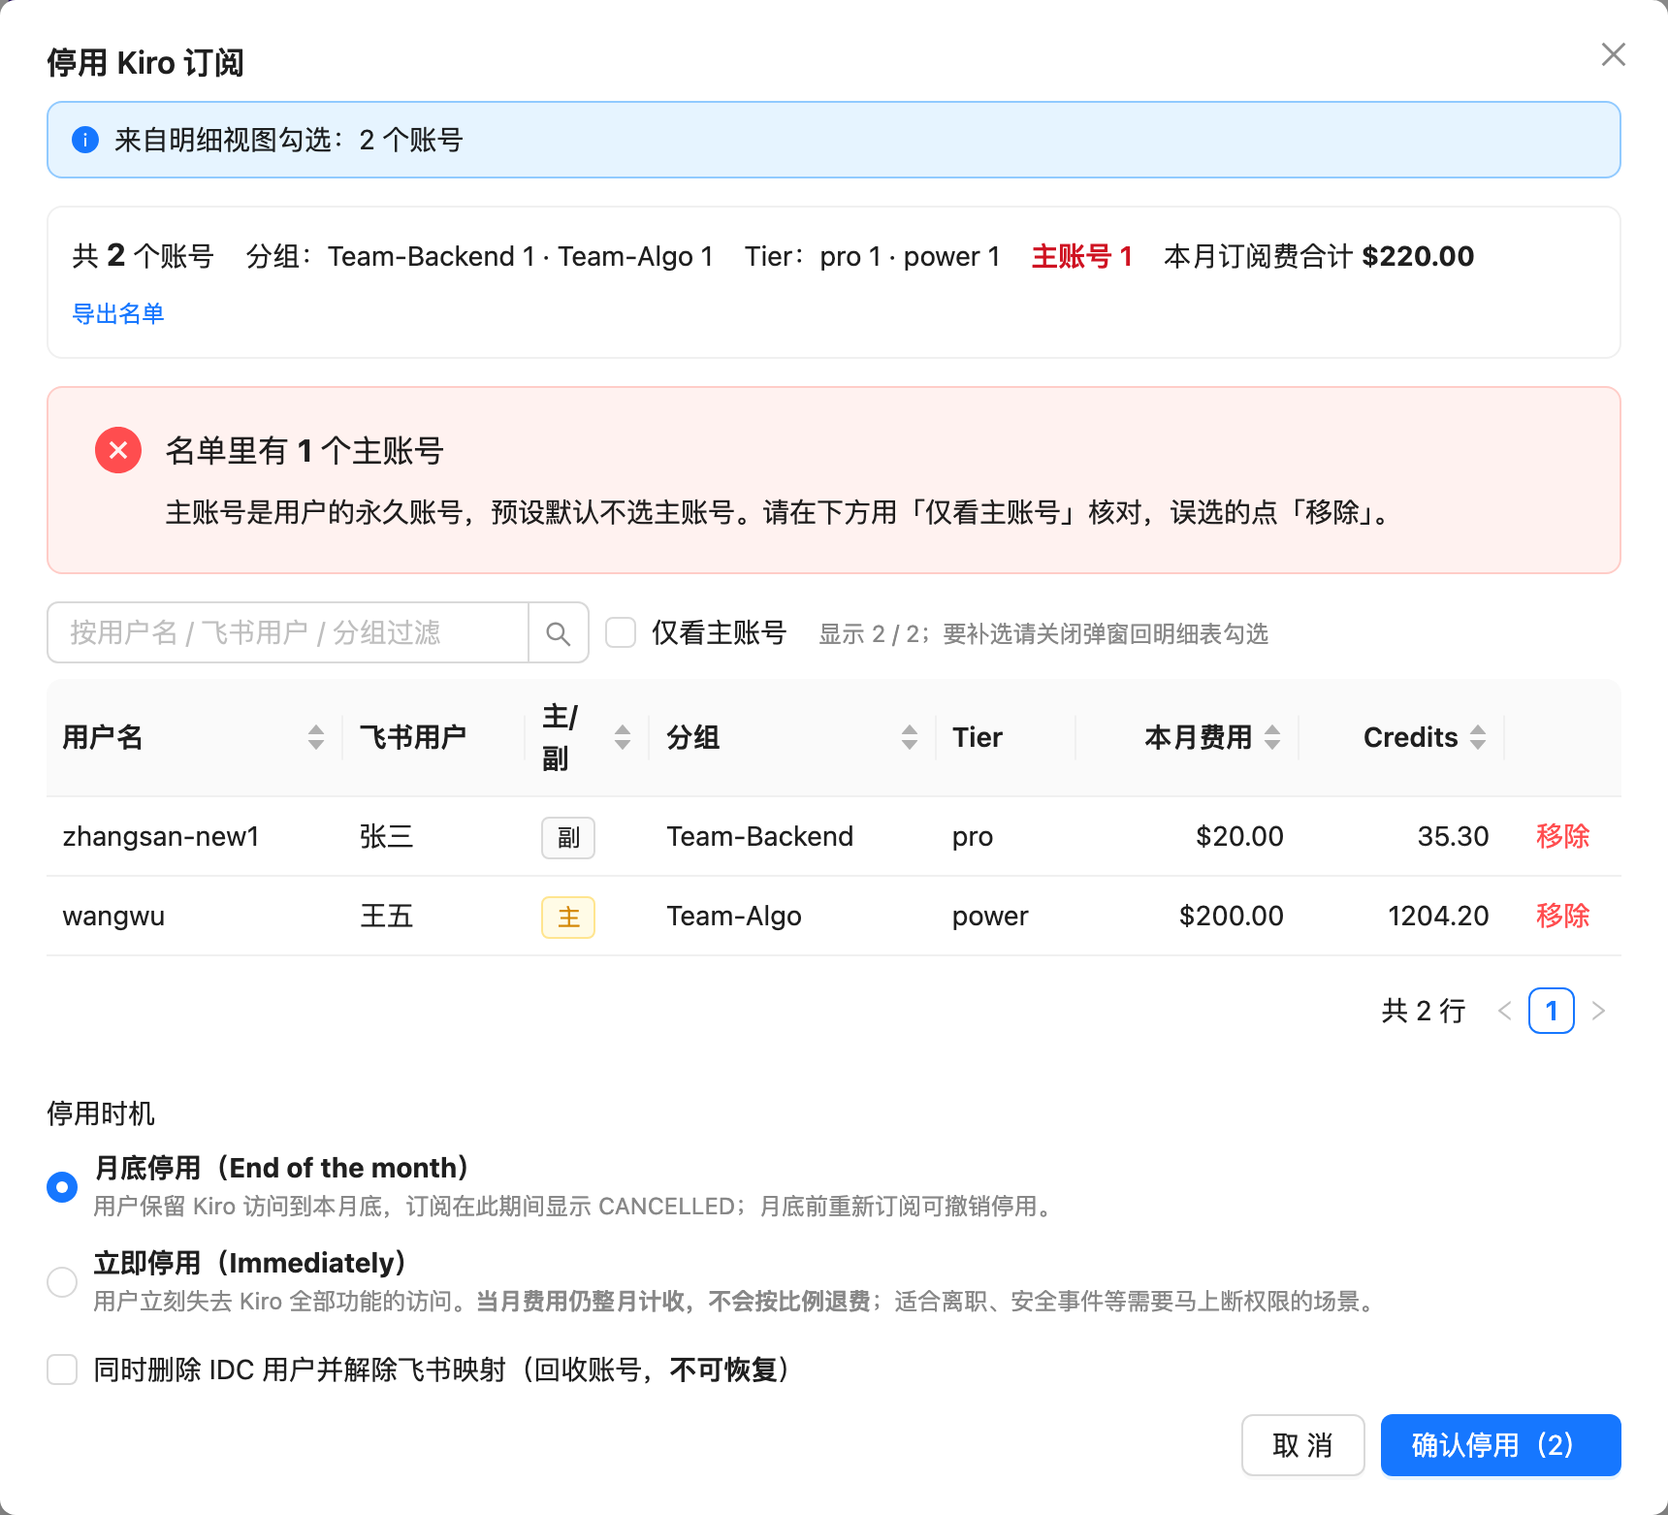
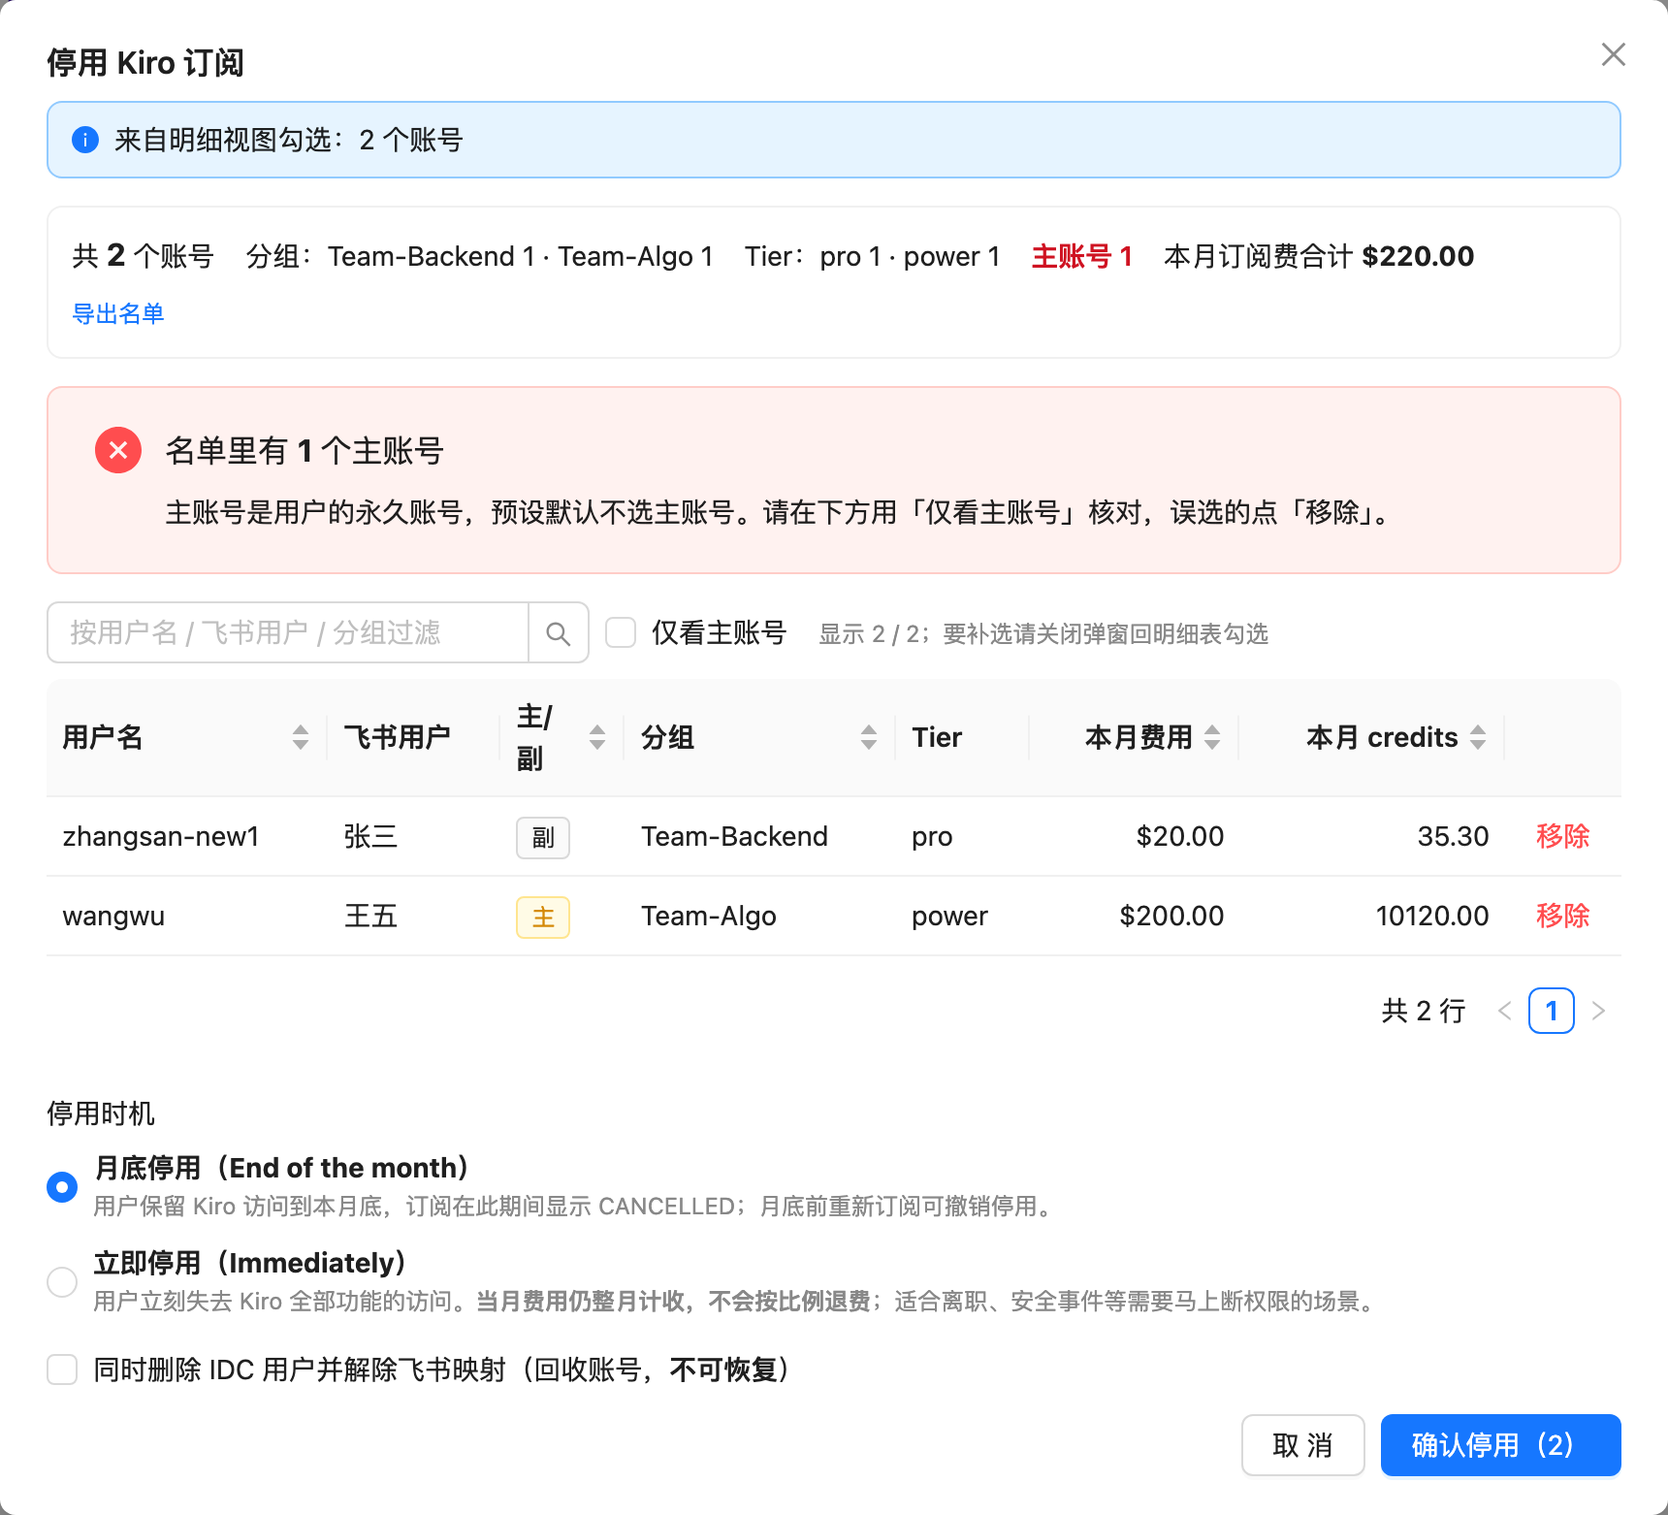
feat: 账号总览全面改为「本月」口径，去掉累计 Credits 列
- 子表删除累计 Credits 列（与「本月已用 / 额度」重复易混），消息数改为本月消息；
  父行改为「本月已用（汇总）」「本月消息（汇总）」；指标卡改「本月 Credits（全员）」「本月有用量的人」；
  Top 用户柱状图改本月
- 明细视图 Credits 阈值筛选、「低用量副账号」预设、停用核对表与导出名单均按本月 credits
- /accounts 新增 usage_month_messages / usage_month_active_days / usage_month_last_active（报表本月聚合）；
  累计值仍保留在 API（usage_credits / usage_messages）
- demo 数据改为自洽（本月 ≤ 累计）；README / PRODUCT.md 口径同步，截图重出

diff --git a/frontend/src/pages/AdminPage.tsx b/frontend/src/pages/AdminPage.tsx
@@ -194,9 +194,11 @@ function aggregateByPerson(rows: AccountRow[]): PersonRow[] {
     }
     p.accounts.push(r)
     p.account_count += 1
-    if (r.usage_credits != null) { p.credits += r.usage_credits; p.has_usage = true }
-    if (r.usage_messages != null) { p.messages += r.usage_messages; p.has_usage = true }
-    if (r.usage_last_active && r.usage_last_active > p.last_active) p.last_active = r.usage_last_active
+    // 本月口径：credits / 消息来自 User Activity Report 本月聚合（累计值仍在 API 中，界面不再展示）
+    if (r.billing_credit_used != null) { p.credits += r.billing_credit_used; p.has_usage = true }
+    if (r.usage_month_messages != null) { p.messages += r.usage_month_messages; p.has_usage = true }
+    const la = r.usage_month_last_active || r.usage_last_active
+    if (la && la > p.last_active) p.last_active = la
   }
   return [...map.values()].sort((a, b) => b.credits - a.credits)
 }
@@ -306,9 +308,9 @@ function DeactivateModal({ open, targets, summary, onClose, onDone }: {
     results.map((r) => [r.username, r.user_id, r.success ? 'success' : 'failed', r.error, mode, recycle ? 'yes' : 'no']))
   const exportList = () => downloadCsv(
     `kiro-deactivate-list-${new Date().toISOString().slice(0, 10)}.csv`,
-    ['username', 'feishu_name', 'role', 'team', 'tier', 'current_charges', 'credits'],
+    ['username', 'feishu_name', 'role', 'team', 'tier', 'current_charges', 'month_credits'],
     rows.map((r) => [r.kiro_username, r.feishu_name, r.account_role, r.team,
-      (r.live_synced ? r.live_tier : r.tier) || '', r.billing_current_charges, r.usage_credits]))
+      (r.live_synced ? r.live_tier : r.tier) || '', r.billing_current_charges, r.billing_credit_used]))
 
   const reviewCols = [
     { title: '用户名', dataIndex: 'kiro_username', sorter: (a: AccountRow, b: AccountRow) => a.kiro_username.localeCompare(b.kiro_username) },
@@ -321,8 +323,8 @@ function DeactivateModal({ open, targets, summary, onClose, onDone }: {
     { title: '本月费用', dataIndex: 'billing_current_charges', align: 'right' as const,
       render: (v: number | null, r: AccountRow) => fmtMoney(v, r.billing_currency),
       sorter: (a: AccountRow, b: AccountRow) => (a.billing_current_charges ?? 0) - (b.billing_current_charges ?? 0) },
-    { title: 'Credits', dataIndex: 'usage_credits', align: 'right' as const, render: fmtCredits,
-      sorter: (a: AccountRow, b: AccountRow) => (a.usage_credits ?? 0) - (b.usage_credits ?? 0) },
+    { title: '本月 credits', dataIndex: 'billing_credit_used', align: 'right' as const, render: fmtCredits,
+      sorter: (a: AccountRow, b: AccountRow) => (a.billing_credit_used ?? 0) - (b.billing_credit_used ?? 0) },
     { title: '', key: 'rm', width: 56, render: (_: any, r: AccountRow) => (
       <Button size="small" type="text" danger onClick={() => remove(r.kiro_user_id)} aria-label={`移除 ${r.kiro_username}`}>移除</Button>
     ) },
@@ -510,8 +512,8 @@ function AccountsPanel() {
   // ── 指标卡 ──
   const totalAccounts = rows.length
   const totalPeople = people.length
-  const totalCredits = rows.reduce((s, r) => s + (r.usage_credits ?? 0), 0)
-  const activePeople = people.filter((p) => p.has_usage && p.credits > 0).length
+  const totalCredits = rows.reduce((s, r) => s + (r.billing_credit_used ?? 0), 0)  // 本月全员 credits
+  const activePeople = people.filter((p) => p.has_usage && p.credits > 0).length     // 本月有用量的人
   // Overages 上限是 profile 级单一值（USD/订阅）；最坏敞口 = 账号数 × 上限
   const worstOverage = cap != null ? totalAccounts * cap.value : null
   // 本月预估账单 = Σ 本周期订阅费 + Σ 超额费用（计费口径，直读订阅计费服务）
@@ -543,14 +545,14 @@ function AccountsPanel() {
     (!fTiers.length || fTiers.includes(effTier(r))) &&
     (!fRole || r.account_role === fRole) &&
     (!fStatus || effStatus(r) === fStatus) &&
-    (fCreditsLt == null || (r.usage_credits ?? 0) < fCreditsLt) &&
+    (fCreditsLt == null || (r.billing_credit_used ?? 0) < fCreditsLt) &&
     (fInactiveDays == null || daysSince(r.usage_last_active) >= fInactiveDays))
   const filterDesc = [
     fTeams.length ? `分组 ${fTeams.join('/')}` : '',
     fTiers.length ? `Tier ${fTiers.join('/')}` : '',
     fRole ? (fRole === 'primary' ? '主账号' : '副账号') : '',
     fStatus ? `状态 ${fStatus}` : '',
-    fCreditsLt != null ? `Credits < ${fCreditsLt}` : '',
+    fCreditsLt != null ? `本月 Credits < ${fCreditsLt}` : '',
     fInactiveDays != null ? `${fInactiveDays} 天未活跃` : '',
   ].filter(Boolean).join(' · ')
   const resetFilters = () => { setFTeams([]); setFTiers([]); setFRole(undefined); setFStatus(undefined); setFCreditsLt(null); setFInactiveDays(null) }
@@ -561,7 +563,7 @@ function AccountsPanel() {
     setFRole('secondary'); setFCreditsLt(fCreditsLt ?? 50)
     const th = fCreditsLt ?? 50
     selectSecondaryOf(rows.filter((r) =>
-      (!fTeams.length || fTeams.includes(r.team)) && (r.usage_credits ?? 0) < th))
+      (!fTeams.length || fTeams.includes(r.team)) && (r.billing_credit_used ?? 0) < th))
   }
   const presetWholeTeam = () => {
     if (!fTeams.length) { message.info('先在「分组」里选择一个或多个组'); return }
@@ -618,8 +620,7 @@ function AccountsPanel() {
           {fmtMoney(v, r.billing_currency)}
         </span>
       ) },
-    { title: 'Credits', dataIndex: 'usage_credits', align: 'right' as const, render: fmtCredits },
-    { title: '消息数', dataIndex: 'usage_messages', align: 'right' as const, render: fmtNum },
+    { title: '本月消息', dataIndex: 'usage_month_messages', align: 'right' as const, render: fmtNum },
     { title: '最后活跃', dataIndex: 'usage_last_active',
       render: (v: string | null) => v || <span style={{ color: '#ccc' }}>—</span> },
     { title: '操作', key: 'ops', render: (_: any, r: AccountRow) => (
@@ -643,11 +644,11 @@ function AccountsPanel() {
     { title: '飞书用户', dataIndex: 'feishu_name' },
     { title: '账号数', dataIndex: 'account_count', align: 'right' as const,
       render: (n: number) => <Tag>{n}</Tag> },
-    { title: 'Credits（汇总）', dataIndex: 'credits', align: 'right' as const,
+    { title: '本月已用（汇总）', dataIndex: 'credits', align: 'right' as const,
       defaultSortOrder: 'descend' as const,
-      render: (v: number, p: PersonRow) => p.has_usage ? v.toFixed(2) : <span style={{ color: '#ccc' }}>—</span>,
+      render: (v: number, p: PersonRow) => p.has_usage ? v.toLocaleString(undefined, { maximumFractionDigits: 1 }) : <span style={{ color: '#ccc' }}>—</span>,
       sorter: (a: PersonRow, b: PersonRow) => a.credits - b.credits },
-    { title: '消息数（汇总）', dataIndex: 'messages', align: 'right' as const,
+    { title: '本月消息（汇总）', dataIndex: 'messages', align: 'right' as const,
       render: (v: number, p: PersonRow) => p.has_usage ? v.toLocaleString() : <span style={{ color: '#ccc' }}>—</span>,
       sorter: (a: PersonRow, b: PersonRow) => a.messages - b.messages },
     { title: '最后活跃', dataIndex: 'last_active',
@@ -666,8 +667,8 @@ function AccountsPanel() {
       <Row gutter={16}>
         <Col span={3}><Card size="small"><Statistic title="飞书用户数" value={totalPeople} /></Card></Col>
         <Col span={3}><Card size="small"><Statistic title="账号总数" value={totalAccounts} /></Card></Col>
-        <Col span={4}><Card size="small"><Statistic title="总 Credits" value={totalCredits} precision={1} /></Card></Col>
-        <Col span={3}><Card size="small"><Statistic title="有用量的人" value={activePeople} suffix={`/ ${totalPeople}`} /></Card></Col>
+        <Col span={4}><Card size="small"><Statistic title="本月 Credits（全员）" value={totalCredits} precision={1} /></Card></Col>
+        <Col span={3}><Card size="small"><Statistic title="本月有用量的人" value={activePeople} suffix={`/ ${totalPeople}`} /></Card></Col>
         <Col span={5}>
           <Card size="small">
             <Statistic title="本月预估账单" prefix="$" value={billingRows.length ? billSubs + billOver : '—'} precision={2}
@@ -757,7 +758,7 @@ function AccountsPanel() {
       {/* 图表 */}
       <Row gutter={16}>
         <Col span={14}>
-          <Card size="small" title="Top 用户 · Credits（按人汇总）">
+          <Card size="small" title="Top 用户 · 本月 Credits（按人汇总）">
             <HBarChart data={topByCredits} />
           </Card>
         </Col>
@@ -795,10 +796,10 @@ function AccountsPanel() {
           </Space>
         }>
         <Typography.Paragraph type="secondary" style={{ fontSize: 12, marginTop: -4 }}>
-          一人多账号已合并为一行，Credits/消息为名下所有账号汇总；点行首 ▸ 展开看每个子账号。
+          一人多账号已合并为一行，本月已用/本月消息为名下所有账号的本月汇总；点行首 ▸ 展开看每个子账号。
           Tier/订阅状态为 AWS 实时数据（控制台的退订/改套餐也会反映）；
           用量来自 Kiro Analytics（Athena，约每日更新），点「刷新」强制重查。— 表示暂无数据。
-          「本月费用」与月额度直读 Kiro 订阅计费服务（实时）；「本月已用 / 超额（预估）」与 Credits/消息数来自 User Activity Report（活动口径，日级延迟约 1 天）；点「账单」可按月回溯。
+          「本月费用」与月额度直读 Kiro 订阅计费服务（实时）；「本月已用 / 超额（预估）」与本月消息来自 User Activity Report（活动口径，按 UTC 自然月，日级延迟约 1 天，与控制台 Dashboard 一致）；点「账单」可按月回溯。
           子账号行的「停用」= 控制台 Deactivate Kiro plan（可选月底 / 立即），已停用（CANCELLED）的行显示「恢复」可撤销；「批量停用 / 回收」可一次处理多个低用量副账号。
         </Typography.Paragraph>
         {view === 'person' ? (
@@ -830,8 +831,8 @@ function AccountsPanel() {
               <Select allowClear placeholder="订阅状态" style={{ width: 130 }} value={fStatus} onChange={setFStatus}
                 options={[{ value: 'ACTIVE', label: 'ACTIVE' }, { value: 'PENDING', label: 'PENDING' },
                           { value: 'CANCELLED', label: 'CANCELLED' }, { value: 'NONE', label: '无订阅' }]} />
-              <InputNumber placeholder="不限" style={{ width: 170 }} min={0} value={fCreditsLt}
-                onChange={(v) => setFCreditsLt(v)} addonBefore="Credits <" />
+              <InputNumber placeholder="不限" style={{ width: 190 }} min={0} value={fCreditsLt}
+                onChange={(v) => setFCreditsLt(v)} addonBefore="本月 Credits <" />
               <InputNumber placeholder="天" style={{ width: 150 }} min={1} value={fInactiveDays}
                 onChange={(v) => setFInactiveDays(v)} addonBefore="未活跃 ≥" addonAfter="天" />
               <Button size="small" onClick={resetFilters}>清除筛选</Button>
@@ -840,7 +841,7 @@ function AccountsPanel() {
             {/* 预设 */}
             <Space size={8}>
               <span style={{ fontSize: 12, color: '#888' }}>快速选择：</span>
-              <Button size="small" onClick={presetLowUsage}>低用量副账号（Credits &lt; {fCreditsLt ?? 50}）</Button>
+              <Button size="small" onClick={presetLowUsage}>低用量副账号（本月 Credits &lt; {fCreditsLt ?? 50}）</Button>
               <Button size="small" onClick={presetWholeTeam} disabled={!fTeams.length}>选中本组全部副账号</Button>
               <Button size="small" onClick={() => selectSecondaryOf(filtered)}>选中当前匹配的副账号</Button>
               <span style={{ fontSize: 12, color: '#888' }}>预设只选副账号；主账号需手动勾选。</span>

diff --git a/frontend/src/api.ts b/frontend/src/api.ts
@@ -106,6 +106,10 @@ export interface AccountRow {
   billing_pending_scheduled: string | null
   billing_credit_limit: number | null
   billing_overage_rate: number | null
+  // 本月活动（User Activity Report 本月聚合）；null = 报表不可用
+  usage_month_messages: number | null
+  usage_month_active_days: number | null
+  usage_month_last_active: string | null
   // 本月已用 / 超额 credits：User Activity Report 本月聚合（活动口径，日级）；null = 报表不可用
   billing_credit_used: number | null
   billing_credit_used_source: 'athena_mtd' | null

diff --git a/backend/tests/test_api_e2e.py b/backend/tests/test_api_e2e.py
@@ -280,12 +280,15 @@ def test_accounts_include_billing_fields(client):
     assert u1["billing_overage_credits"] == 25.0
     assert u1["billing_overage_charges"] == 1.0           # 25 × 0.04 预估
     assert u1["billing_zorn_credit_used"] == 1234.5 and u1["billing_zorn_overage_charges"] == 3.2
+    assert u1["usage_month_messages"] == 73 and u1["usage_month_active_days"] == 1
+    assert u1["usage_month_last_active"] == "2026-11-03"
     assert u1["billing_account_status"] == "ACTIVE"
     # 报表可用但该用户本月无记录 → 0；没有计费数据 → synced=False、套餐字段 None，列表不中断
     u2 = rows["u2"]
     assert u2["billing_synced"] is False and u2["billing_error"] == "unavailable"
     assert u2["billing_current_charges"] is None and u2["billing_credit_limit"] is None
     assert u2["billing_credit_used"] == 0.0 and u2["billing_overage_credits"] == 0.0
+    assert u2["usage_month_messages"] == 0 and u2["usage_month_last_active"] is None
     assert u2["billing_overage_charges"] == 0.0           # 无单价时用默认 0.04 × 0
 
 
@@ -300,6 +303,7 @@ def test_accounts_month_usage_unavailable_gives_none(client):
     row = r.json()[0]
     assert row["billing_credit_used"] is None and row["billing_credit_used_source"] is None
     assert row["billing_overage_charges"] is None
+    assert row["usage_month_messages"] is None and row["usage_month_active_days"] is None
     assert row["billing_credit_limit"] == 10000.0   # 额度仍来自计费服务
 
 

diff --git a/backend/app/routers/admin_router.py b/backend/app/routers/admin_router.py
@@ -154,6 +154,10 @@ def list_accounts(force: bool = False, _: CurrentUser = Depends(require_admin)):
             "billing_pending_scheduled": (b or {}).get("pending_scheduled"),
             "billing_credit_limit": (b or {}).get("credit_limit"),
             "billing_overage_rate": (b or {}).get("overage_rate"),
+            # 本月活动（User Activity Report 本月聚合）：消息数 / 活跃天数 / 最后活跃；None = 报表不可用
+            "usage_month_messages": (mu["messages"] if mu else (0 if month_available else None)),
+            "usage_month_active_days": (mu["active_days"] if mu else (0 if month_available else None)),
+            "usage_month_last_active": (mu["last_active"] if mu and mu.get("last_active") else None),
             # 本月已用 / 超额：活动口径（User Activity Report 本月聚合），None = 报表不可用
             "billing_credit_used": mtd_credits,
             "billing_credit_used_source": "athena_mtd" if month_available else None,

diff --git a/backend/demo_server.py b/backend/demo_server.py
@@ -132,7 +132,7 @@ DEMO_BILLING = {
 }
 # 本月已用 / 超额 credits（User Activity Report 本月聚合，活动口径）；王五超限 10120/10000、超额 120 credits → 预估 $4.80
 DEMO_MONTH_USAGE = {
-    "u-001": {"credits": 862.5, "overage": 0.0, "messages": 4210, "active_days": 3, "last_active": "2026-07-06"},
+    "u-001": {"credits": 612.5, "overage": 0.0, "messages": 2980, "active_days": 3, "last_active": "2026-07-06"},
     "u-002": {"credits": 35.3, "overage": 0.0, "messages": 102, "active_days": 2, "last_active": "2026-06-28"},
     "u-003": {"credits": 1740.8, "overage": 0.0, "messages": 2874, "active_days": 5, "last_active": "2026-07-07"},
     "u-004": {"credits": 10120.0, "overage": 120.0, "messages": 6031, "active_days": 6, "last_active": "2026-07-07"},

diff --git a/docs/PRODUCT.md b/docs/PRODUCT.md
@@ -75,8 +75,8 @@
 ### 3.4 用量看板（对接 Kiro 用量报表）
 
 - 数据源：Kiro Console 的 User Activity Report（CSV → Glue → Athena）
-- 按人聚合：credits、消息数、会话数、活跃天数、最后活跃时间；一人多账号自动汇总
-- 纯 SVG 自绘图表（Top 用户柱状图、Tier 分布环形图），无重型依赖
+- 按人聚合（**本月口径**）：本月已用 credits、本月消息数、最后活跃时间；一人多账号自动汇总。界面不再展示累计值，避免与「本月已用 / 额度」混淆（累计仍保留在 API）
+- 纯 SVG 自绘图表（Top 用户本月 credits 柱状图、Tier 分布环形图），无重型依赖
 - 副账号回收闭环：筛选低用量副账号 → 「批量停用 / 回收」一键执行（见 3.2），逐账号结果回显
 
 ### 3.5 成本治理（Overages）

diff --git a/README.md b/README.md
@@ -30,7 +30,7 @@
 |---|---|
 | ![用户 Dashboard](docs/screenshots/02-user-dashboard.png) | ![申请弹窗](docs/screenshots/03-apply-modal.png) |
 
-**管理端 · 账号总览**：指标卡（含「本月预估账单」）+ Top 用户 Credits + Tier 分布 + 按人聚合表（展开子账号可见本月费用 / 额度用量 / 超额，Kiro Enterprise 计费直读）
+**管理端 · 账号总览**：指标卡（本月 Credits / 本月预估账单）+ Top 用户本月 Credits + Tier 分布 + 按人聚合表（展开子账号可见本月费用 / 本月已用 ÷ 额度 / 超额预估 / 本月消息；费用与额度直读 Kiro Enterprise 订阅计费，用量取自 User Activity Report 本月聚合）
 
 ![账号总览](docs/screenshots/05-admin-accounts.png)
 
